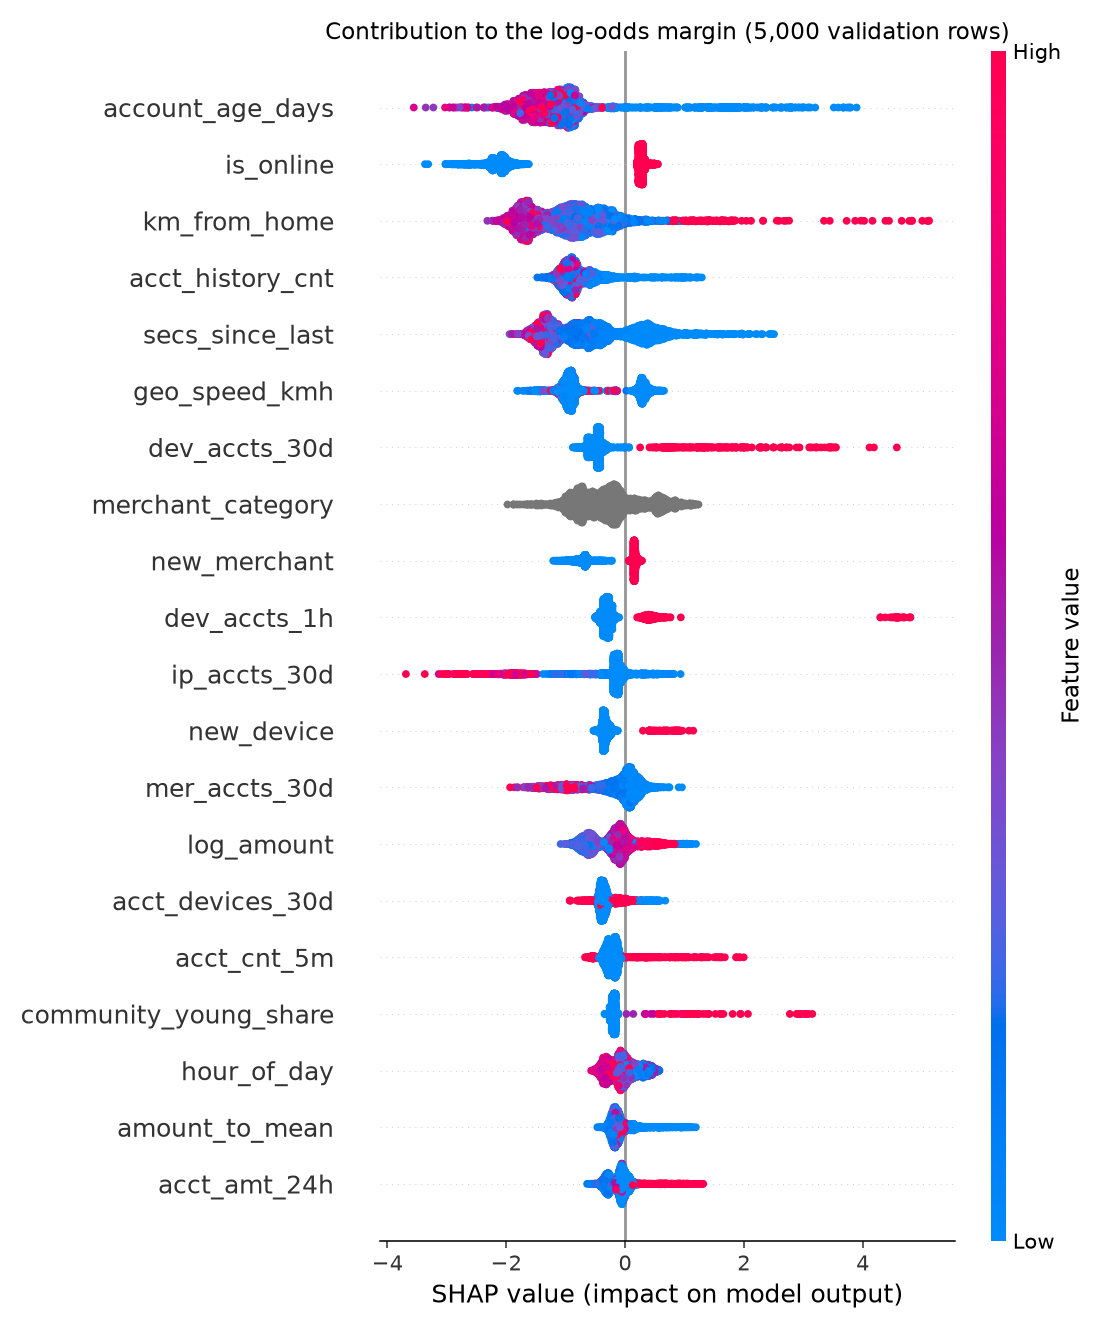
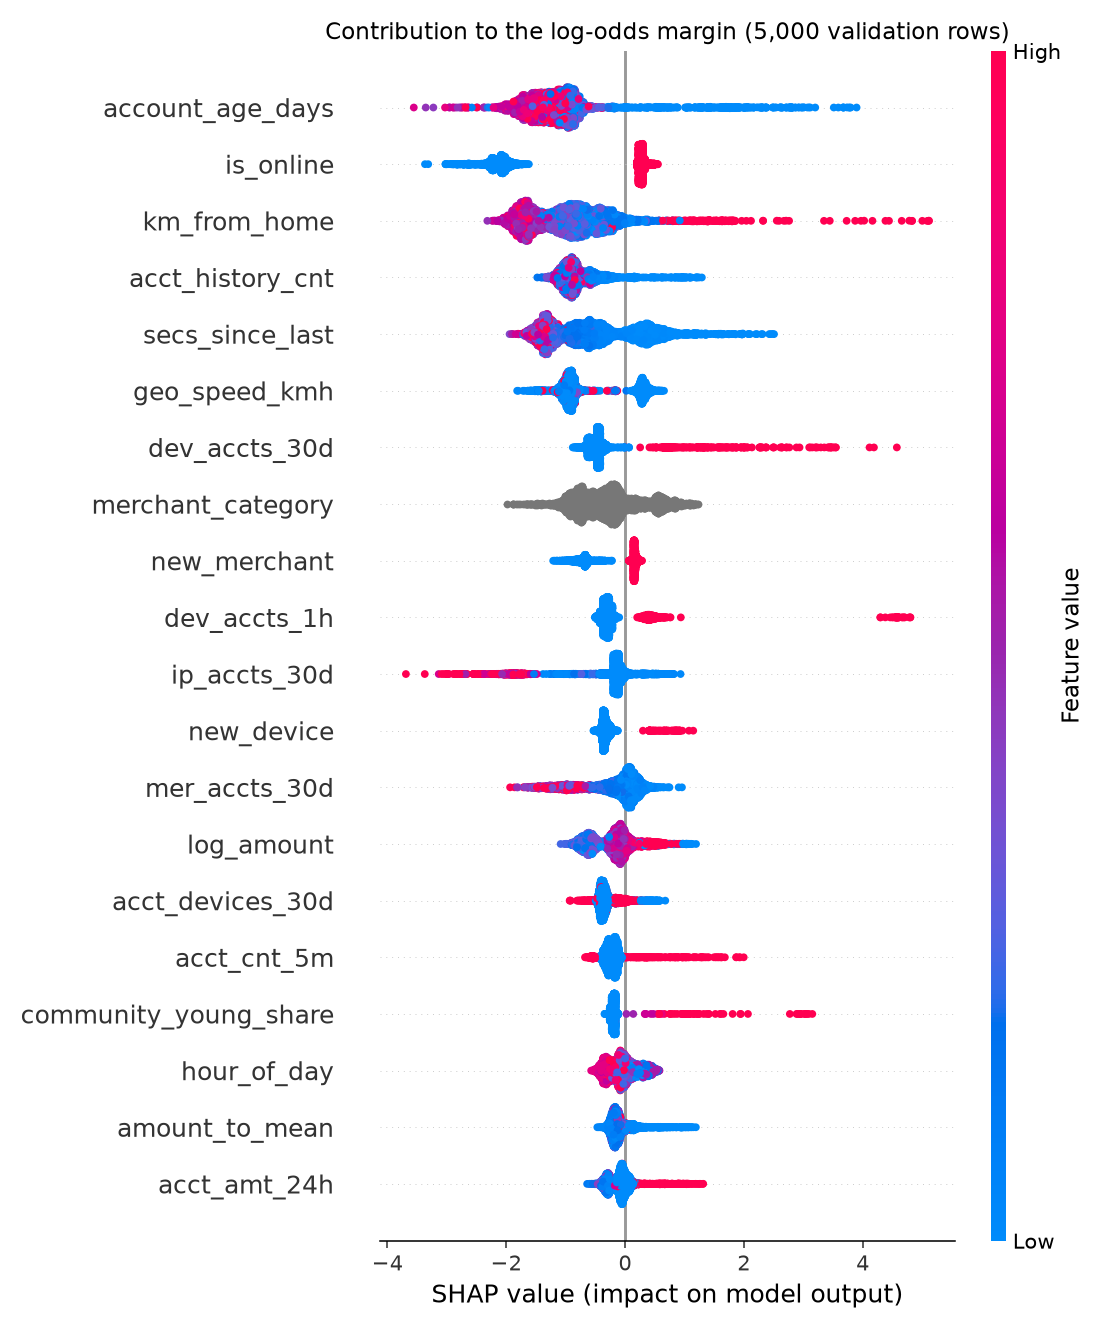
Report the accepted HOLD policy consistently across artifact and reports
The user accepted HOLD being disabled for v1, with every flagged transaction
going to REVIEW. Verifying that found a real inconsistency: evaluate_at ran its
own hold_threshold() search regardless of the decision policy, so both
models/v1/metadata.json and E4.json advertised a live HOLD tier at threshold
0.5128 next to thresholds.hold = null. A reader of either file would have
concluded the system freezes cards when it does not.

evaluate_at now takes the policy tier. Left unset it still searches, which
remains the right question for a candidate model nobody ships, so E2, E3 and
E3b keep source: "search". The hold block carries enabled and source so every
file says which of the two it is.

models/v1 was rebuilt to regenerate the metadata only. PR-AUC
0.9937680386465483, threshold 0.5128232795323753 and 909 alerts are identical
to the previous build, and round-trip verification measures zero. No modelling
choice changed.

Scoring the validation split through RiskModel yields 65,440 ALLOW and 909
REVIEW, with no HOLD. ALLOW/REVIEW/HOLD stays the decision vocabulary so a
later version can enable the tier without a schema change.

The test split is still unread: reports/test_runs.log does not exist and
metrics.test is null.

diff --git a/src/fraud/modeling/metrics.py b/src/fraud/modeling/metrics.py
@@ -13,7 +13,7 @@ traffic is not a threshold anyone can staff.
 from __future__ import annotations
 
 from dataclasses import dataclass, field
-from typing import Any
+from typing import Any, Final
 
 import numpy as np
 from sklearn.metrics import average_precision_score, roc_auc_score
@@ -21,6 +21,13 @@ from sklearn.metrics import average_precision_score, roc_auc_score
 from fraud.config import load_yaml
 
 NO_FRAUD = "NONE"
+
+
+class _Unset:
+    """Marker for "no policy supplied, run the exploratory search"."""
+
+
+UNSET: Final[Any] = _Unset()
 
 
 @dataclass(frozen=True, slots=True)
@@ -53,6 +60,15 @@ class Evaluation:
     hold_threshold: float | None = None
     hold_precision: float | None = None
     hold_alerts: int = 0
+    # Where the HOLD block came from. "search" is the exploratory question "could this
+    # score support a HOLD tier at all"; "policy" is the tier a shipped artifact actually
+    # applies. They differ, and a reader has to be able to tell which one they are
+    # looking at — see the note on `evaluate_at`.
+    hold_source: str = "search"
+
+    @property
+    def hold_enabled(self) -> bool:
+        return self.hold_threshold is not None
 
     def to_dict(self) -> dict[str, Any]:
         return {
@@ -68,9 +84,11 @@ class Evaluation:
             "value_detection_rate": self.value_detection_rate,
             "recall_by_pattern": self.recall_by_pattern,
             "hold": {
+                "enabled": self.hold_enabled,
                 "threshold": self.hold_threshold,
                 "precision": self.hold_precision,
                 "alerts": self.hold_alerts,
+                "source": self.hold_source,
             },
         }
 
@@ -172,10 +190,13 @@ def evaluate(
     amounts: np.ndarray | None = None,
     fraud_type: np.ndarray | None = None,
     budget: float | None = None,
+    hold: float | None | _Unset = UNSET,
 ) -> Evaluation:
     """The full §7.8 picture, at the best threshold inside the alert budget."""
     point = operating_point(y_true, scores, budget)
-    return evaluate_at(y_true, scores, point.threshold, amounts=amounts, fraud_type=fraud_type)
+    return evaluate_at(
+        y_true, scores, point.threshold, amounts=amounts, fraud_type=fraud_type, hold=hold
+    )
 
 
 def evaluate_at(
@@ -185,11 +206,19 @@ def evaluate_at(
     *,
     amounts: np.ndarray | None = None,
     fraud_type: np.ndarray | None = None,
+    hold: float | None | _Unset = UNSET,
 ) -> Evaluation:
     """The same picture at a threshold someone else chose.
 
     The rules baseline needs this: rules fire where they fire, and forcing them through
     a budget-constrained search would flatter them by hiding how much they over-alert.
+
+    ``hold`` decides what the HOLD block means. Left unset, this searches for the best
+    HOLD threshold the score could support, which is the right question for a candidate
+    model nobody is shipping. Passed explicitly — including as ``None`` — it reports the
+    tier the artifact's decision policy actually applies. A shipped model must use the
+    second form: reporting a searched HOLD threshold beside a policy that disabled the
+    tier tells a reader the system freezes cards when it does not (§7.7, §8).
     """
     y_true = np.asarray(y_true)
     scores = np.asarray(scores, dtype=float)
@@ -228,7 +257,19 @@ def evaluate_at(
             if rows.any():
                 by_pattern[str(pattern)] = float(flagged[rows].mean())
 
-    hold_t, hold_p, hold_n = hold_threshold(y_true, scores)
+    if isinstance(hold, _Unset):
+        hold_t, hold_p, hold_n = hold_threshold(y_true, scores)
+        source = "search"
+    elif hold is None:
+        hold_t, hold_p, hold_n = None, None, 0
+        source = "policy"
+    else:
+        flagged_hold = scores >= hold
+        held = int(flagged_hold.sum())
+        hold_t = float(hold)
+        hold_p = float(y_true[flagged_hold].sum()) / held if held else None
+        hold_n = held
+        source = "policy"
 
     return Evaluation(
         pr_auc=pr_auc(y_true, scores),
@@ -245,4 +286,5 @@ def evaluate_at(
         hold_threshold=hold_t,
         hold_precision=hold_p,
         hold_alerts=hold_n,
+        hold_source=source,
     )

diff --git a/tests/test_scoring.py b/tests/test_scoring.py
@@ -73,6 +73,13 @@ def _build(directory: Path, *, version: str = "v1", **overrides: Any) -> tuple[P
     risk = blend.blend(p_xgb, detector.percentile(valid), WEIGHT)
     thresholds = choose(valid["is_fraud"].to_numpy(), risk)
 
+    # A real Evaluation, carrying the policy tier, exactly as artifacts.build() does.
+    # A stubbed dict here would let the metadata-consistency test pass vacuously.
+    from fraud.modeling.metrics import evaluate_at
+
+    evaluation = evaluate_at(
+        valid["is_fraud"].to_numpy(), risk, thresholds.review, hold=thresholds.hold
+    )
     metadata = artifacts.build_metadata(
         version,
         xgb_params={"max_depth": 3},
@@ -80,7 +87,7 @@ def _build(directory: Path, *, version: str = "v1", **overrides: Any) -> tuple[P
         detector=detector,
         blend_weight=WEIGHT,
         thresholds=thresholds,
-        valid_metrics={"pr_auc": 1.0},
+        valid_metrics=evaluation.to_dict(),
     )
     metadata.update(overrides)
 
@@ -176,6 +183,70 @@ def test_hold_is_disabled_when_it_would_not_separate_from_review() -> None:
     # The measurement survives even though the tier is off, so metadata can tell the
     # two disabled cases apart.
     assert thresholds.hold_precision == pytest.approx(1.0)
+
+
+def test_reported_hold_block_follows_the_policy() -> None:
+    """A disabled tier must not be advertised as a live one.
+
+    ``evaluate_at`` runs its own HOLD search unless a policy is handed to it, so an
+    artifact could report ``thresholds.hold = null`` beside ``metrics.hold.threshold =
+    0.51`` — telling a reader the system freezes cards when it does not. The shipped
+    paths pass the policy; this pins that.
+    """
+    y = np.repeat([1, 0], [400, 3600])
+    risk = np.repeat([0.99, 0.01], [400, 3600])
+    thresholds = choose(y, risk)
+    assert thresholds.hold is None
+
+    from fraud.modeling.metrics import evaluate_at
+
+    searched = evaluate_at(y, risk, thresholds.review).to_dict()["hold"]
+    assert searched["enabled"] is True and searched["source"] == "search"
+
+    reported = evaluate_at(y, risk, thresholds.review, hold=thresholds.hold).to_dict()["hold"]
+    assert reported == {
+        "enabled": False,
+        "threshold": None,
+        "precision": None,
+        "alerts": 0,
+        "source": "policy",
+    }
+
+
+def test_an_enabled_hold_policy_is_measured_not_researched() -> None:
+    """When a policy tier exists, its numbers are the policy's, not a fresh search's."""
+    from fraud.modeling.metrics import evaluate_at
+
+    y = np.repeat([1, 0], [400, 3600])
+    risk = np.concatenate([np.linspace(0.6, 0.99, 400), np.linspace(0.0, 0.59, 3600)])
+
+    block = evaluate_at(y, risk, 0.6, hold=0.9).to_dict()["hold"]
+    assert block["enabled"] is True
+    assert block["threshold"] == 0.9
+    assert block["source"] == "policy"
+    assert block["alerts"] == int((risk >= 0.9).sum())
+
+
+def test_artifact_metadata_agrees_with_its_own_policy(built: tuple[Path, pd.DataFrame]) -> None:
+    """The whole point of the fix, asserted on a real saved folder."""
+    metadata = json.loads((built[0] / "v1" / "metadata.json").read_text())
+    policy = metadata["thresholds"]
+    reported = metadata["metrics"]["valid"]["hold"]
+
+    assert reported["source"] == "policy"
+    assert reported["enabled"] == policy["hold_enabled"]
+    assert reported["threshold"] == policy["hold"]
+
+
+def test_a_disabled_policy_never_reaches_a_decision(built: tuple[Path, pd.DataFrame]) -> None:
+    """End to end: if the artifact disables HOLD, scoring cannot emit one."""
+    directory, valid = built
+    model = RiskModel.load(model_dir=directory)
+    scored = model.score_batch(valid, explain=False)
+
+    if model.bundle.thresholds.hold is None:
+        assert HOLD not in set(scored.decision)
+    assert set(scored.decision) <= set(DECISIONS)
 
 
 def test_thresholds_serialise_the_disabled_reason() -> None:

diff --git a/scripts/export_results.py b/scripts/export_results.py
@@ -90,13 +90,22 @@ def _hold_table(suffix: str = "") -> str:
     hold = payload["metrics"]["hold"]
     enabled = payload["details"].get("hold_enabled", hold["threshold"] is not None)
     if not enabled:
+        alerts = payload["metrics"]["alerts"]
         return (
-            "**HOLD is disabled.** Its threshold did not sit above the REVIEW threshold, "
-            "because precision inside the alert budget "
-            f"({payload['metrics']['precision']:.3f}) already clears the 0.95 bar. Every "
-            "alert would have become a HOLD, freezing every flagged customer and leaving "
-            "the analyst queue empty, so the tier is reported as not separating rather "
-            "than manufactured by moving the bar (PLAN §7.7).\n"
+            "**HOLD is disabled in this model version. Every flagged transaction goes to "
+            f"REVIEW** — {alerts:,} of them, at {payload['metrics']['precision']:.3f} "
+            "precision.\n\n"
+            "§7.7 picks the HOLD threshold as the lowest one reaching 0.95 precision, "
+            "which assumes precision at the budget threshold sits *below* that bar. Here "
+            "it does not, so the lowest qualifying threshold is the REVIEW threshold "
+            "itself and the two tiers coincide. Shipping that would freeze every flagged "
+            "customer and leave the analyst queue empty, so the tier is switched off and "
+            "reported as not separating, rather than manufactured by moving the bar.\n\n"
+            "The measured numbers are kept in `models/*/metadata.json` under "
+            '`thresholds.valid`, so "HOLD was possible but not distinct" stays '
+            'distinguishable from "nothing was precise enough". `ALLOW`/`REVIEW`/`HOLD` '
+            "remains the decision vocabulary; a later model version can enable the tier "
+            "without a schema change (PLAN §7.7).\n"
         )
     return (
         "| Threshold | Precision | Alerts |\n|---|---|---|\n"

diff --git a/tests/test_evaluate_test.py b/tests/test_evaluate_test.py
@@ -210,9 +210,16 @@ def _experiment(experiment_id: str, **metrics: Any) -> dict[str, Any]:
         "f1": 0.9,
         "false_positive_rate": 0.001,
         "alert_rate": 0.013,
+        "alerts": 909,
         "value_detection_rate": 0.9,
         "recall_by_pattern": {"VELOCITY": 0.9, "ATO": 1.0, "CARD_TESTING": 1.0, "RING": 1.0},
-        "hold": {"threshold": None, "precision": None, "alerts": 0},
+        "hold": {
+            "enabled": False,
+            "threshold": None,
+            "precision": None,
+            "alerts": 0,
+            "source": "policy",
+        },
     }
     base.update(metrics)
     return {
@@ -265,7 +272,8 @@ def test_results_says_the_test_split_is_unread(rendered: str) -> None:
 
 
 def test_results_explains_the_disabled_hold_tier(rendered: str) -> None:
-    assert "**HOLD is disabled.**" in rendered
+    assert "HOLD is disabled in this model version" in rendered
+    assert "Every flagged transaction goes to REVIEW" in rendered
 
 
 def test_results_reports_the_flat_weight_curve(rendered: str) -> None:

diff --git a/src/fraud/modeling/artifacts.py b/src/fraud/modeling/artifacts.py
@@ -293,6 +293,9 @@ def build(version: str, *, n_jobs: int = -1) -> tuple[Path, dict[str, Any]]:
         thresholds.review,
         amounts=valid["amount"].to_numpy() if "amount" in valid.columns else None,
         fraud_type=valid["fraud_type"].to_numpy(),
+        # The policy tier, not a fresh search: the metadata has to describe the model
+        # that ships, and this one disables HOLD (§7.7).
+        hold=thresholds.hold,
     )
 
     metadata = build_metadata(

diff --git a/src/fraud/modeling/experiments.py b/src/fraud/modeling/experiments.py
@@ -297,6 +297,7 @@ def run_e4(valid: pd.DataFrame, *, model: Any = None, split: str = "valid") -> E
         bundle.thresholds.review,
         amounts=valid["amount"].to_numpy() if "amount" in valid.columns else None,
         fraud_type=valid["fraud_type"].to_numpy(),
+        hold=bundle.thresholds.hold,
     )
 
     return Experiment(

diff --git a/PROGRESS.md b/PROGRESS.md
@@ -26,8 +26,10 @@ here (prompt P5.3). It will fill `metrics.test` in `models/v1/metadata.json`, wr
 Proof it has not been read: `reports/test_runs.log` does not exist and
 `models/v1/metadata.json` has `metrics.test = null`.
 
-⚠ Still open for the user: **the HOLD tier is disabled** because it does not separate
-from REVIEW on this data (see the deviations table).
+✅ **Settled 2026-09-21: HOLD stays disabled for `v1`; every flagged transaction goes to
+REVIEW.** Accepted by the user. Verified consistent across the artifact, its metadata,
+the experiment files, the generated report and the serving path — see the deviations
+table.
 
 ---
 
@@ -318,6 +320,8 @@ again in either file.
 | 2026-09-20 | `evaluate_test.py` applies thresholds chosen on valid, and refits E2/E3 deterministically rather than reusing stored models | Re-deriving a threshold on test would tune the decision to the data judging it (L10). E2 and E3 have no saved artifact, so they are refit from `train` with the recorded seeded parameters — identical models, nothing fitted on test. E4 comes straight from `models/v1` | §7.11 |
 | 2026-09-20 | `EvaluationRun`, not `TestRun` | pytest collects any class named `Test*` and warns — the same trap that renamed `SplitLockedError`. Second occurrence, so it is worth stating as a convention | §13 |
 | 2026-09-20 | The global contribution figure is a real `shap` beeswarm, not the matplotlib fallback | §7.10 allows either. `shap` 0.52 and XGBoost 3.4 agreed, and the beeswarm shows direction and spread rather than magnitude alone — low `account_age_days` and high `dev_accts_30d` visibly push towards fraud. The fallback path is kept and still reachable | §7.10 |
+| 2026-09-21 | **ACCEPTED by the user: `v1` ships with HOLD disabled — all 909 flagged transactions go to REVIEW at 0.960 precision** | Confirmed on 2026-09-21 after the §7.7 tier collapse was reported. `ALLOW`/`REVIEW`/`HOLD` stays the decision vocabulary, so a later version can enable the tier with no schema change, and the scorer's `hold:acct:{id}` path (§7.7, Phase 6) is simply dormant in `v1`. Verified end to end: `thresholds.hold = null`, `hold_enabled = false`, `hold_degenerate = true`; `metrics.valid.hold` reports `enabled: false, source: "policy"`; `E4.json` matches byte for byte; `results.md` states the policy; scoring the valid split through `RiskModel` yields 65,440 ALLOW + 909 REVIEW and **zero HOLD** | §7.7 |
+| 2026-09-21 | The reported HOLD block now follows the policy instead of re-searching, and `metrics.hold` gained `enabled` and `source` | Verifying the accepted decision found a real inconsistency: `evaluate_at` ran its own `hold_threshold()` search regardless of the policy, so `models/v1/metadata.json` and `E4.json` advertised a live tier at threshold `0.5128` beside `thresholds.hold = null` — telling a reader the system freezes cards when it does not. `evaluate_at(..., hold=...)` now takes the policy; left unset it still searches, which is the right question for a candidate model nobody ships (`E2`/`E3`/`E3b` keep `source: "search"`). `models/v1` was rebuilt to regenerate the metadata only: PR-AUC `0.9937680386465483`, threshold `0.5128232795323753` and 909 alerts are all bit-identical, and round-trip verification measures 0. **No modelling choice changed** | §7.7, §8 |
 | 2026-09-20 | Numeric knobs not fixed by the plan (diurnal peak sigmas, Zipf exponent, decline-vs-amount exponent, office group Pareto alpha, category medians/shares) were chosen here | §4.3-§4.5 specifies structure and targets, not every constant. These are tunable until the Phase 1 freeze, then fixed | §4.3, §4.8 |
 
 ---

diff --git a/reports/results.md b/reports/results.md
@@ -2,7 +2,7 @@
 
 **Generated by `make results`. Do not edit by hand (PLAN §0.4, §7.9).**
 
-- Model version: `v1` · blend weight `w* = 0.5` · commit `7d8292a`
+- Model version: `v1` · blend weight `w* = 0.5` · commit `5ba2675`
 - Every number traces to a file in `reports/experiments/`.
 - One simulated dataset, no confidence intervals. Rows inside one attack are
   correlated, so a row-level bootstrap would overstate certainty (§7.8).
@@ -22,7 +22,11 @@ Development split. Thresholds are chosen here, under a 2% alert budget.
 
 ### HOLD tier
 
-**HOLD is disabled.** Its threshold did not sit above the REVIEW threshold, because precision inside the alert budget (0.960) already clears the 0.95 bar. Every alert would have become a HOLD, freezing every flagged customer and leaving the analyst queue empty, so the tier is reported as not separating rather than manufactured by moving the bar (PLAN §7.7).
+**HOLD is disabled in this model version. Every flagged transaction goes to REVIEW** — 909 of them, at 0.960 precision.
+
+§7.7 picks the HOLD threshold as the lowest one reaching 0.95 precision, which assumes precision at the budget threshold sits *below* that bar. Here it does not, so the lowest qualifying threshold is the REVIEW threshold itself and the two tiers coincide. Shipping that would freeze every flagged customer and leave the analyst queue empty, so the tier is switched off and reported as not separating, rather than manufactured by moving the bar.
+
+The measured numbers are kept in `models/*/metadata.json` under `thresholds.valid`, so "HOLD was possible but not distinct" stays distinguishable from "nothing was precise enough". `ALLOW`/`REVIEW`/`HOLD` remains the decision vocabulary; a later model version can enable the tier without a schema change (PLAN §7.7).
 
 
 ## Test split
